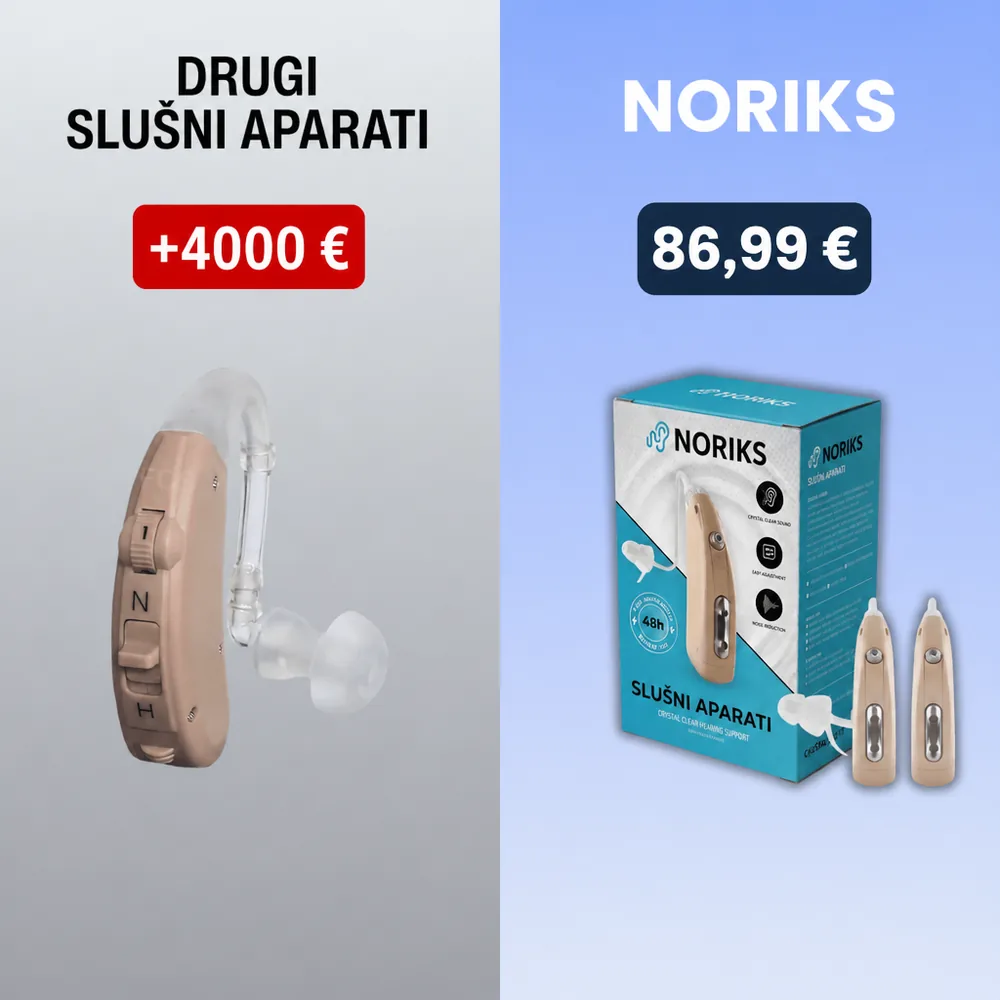
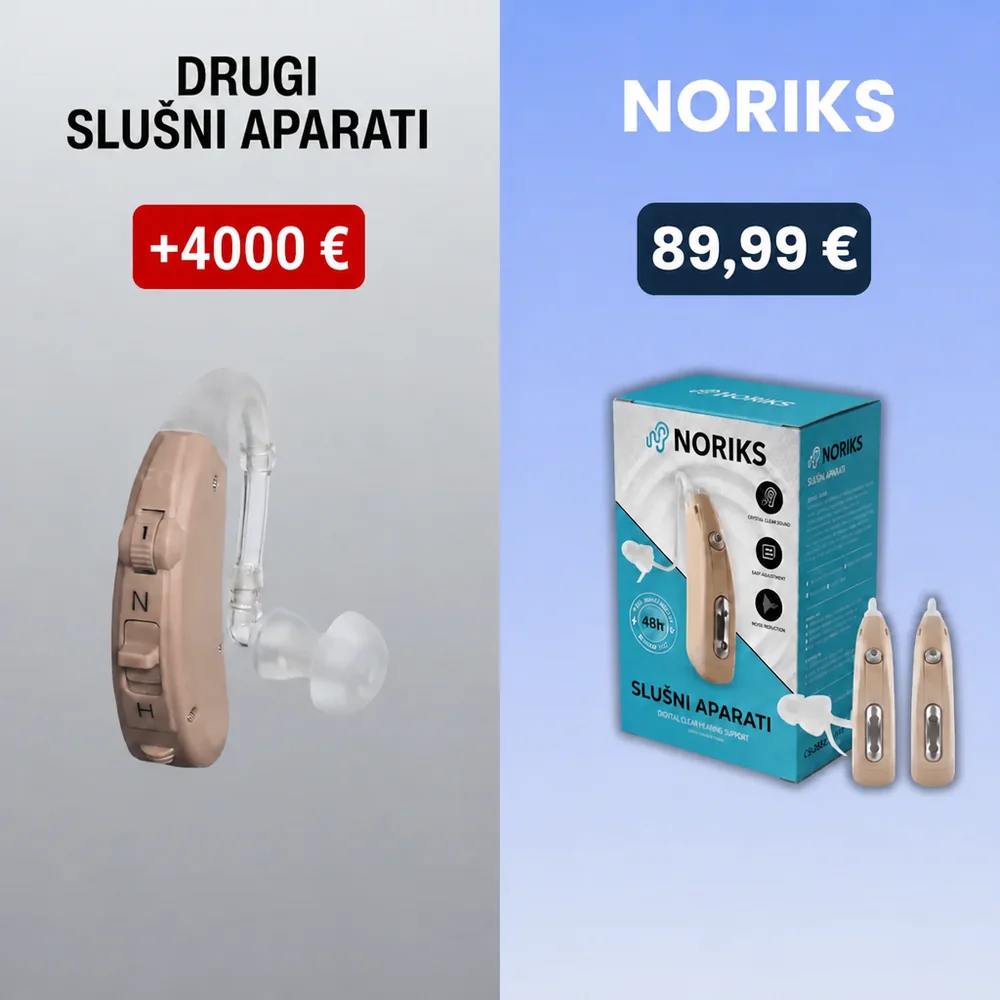
ClearEar: nova cena 89,99 EUR tudi na sliki usporedbe in v tabeli Cijena (prej 86,99) - Davidov komentar, lepe cene

diff --git a/wp-content/themes/noriks/template_parts/product-bottom/why-aparat.php b/wp-content/themes/noriks/template_parts/product-bottom/why-aparat.php
@@ -19,9 +19,9 @@
 if ( ! defined( 'ABSPATH' ) ) { exit; }
 ?>
 <div class="wsaparat">
-<section class="wsaparat__s wsaparat__s--bg"><div class="wsaparat__v wsaparat__dva"><div class="wsaparat__media wsaparat__media--cela"><img src="<?php echo esc_url( get_template_directory_uri() . '/img/aparat/noriks-aparat-03-usporedba-cijene.webp' ); ?>" alt="Dosta preplaćivanja slušnih aparata?" loading="eager" decoding="async"></div><div><div class="wsaparat__kicker">Pošteno o cijeni</div><h2 class="wsaparat__h2">Dosta preplaćivanja <em>slušnih aparata?</em></h2><p class="wsaparat__p">Iste prednosti za djelić cijene. Velike marke za slušne aparate traže 5.000 €, pa i 6.000 € i više – za uređaje čija izrada stoji tek sitniš.</p><p class="wsaparat__p">Te marke iskorištavaju ljude koji samo žele ponovno <em>jasno čuti</em>. A vi ne biste smjeli birati između praznog računa i propuštenih glasova vlastitih unuka.</p><p class="wsaparat__p">NORIKS ClearEar slušni aparati nude <em>isti kristalno čist zvuk</em> i istu učinkovitost – za djelić cijene.</p><p class="wsaparat__zak">Bolji sluh ne bi smio biti luksuz.</p></div></div></section>
+<section class="wsaparat__s wsaparat__s--bg"><div class="wsaparat__v wsaparat__dva"><div class="wsaparat__media wsaparat__media--cela"><img src="<?php echo esc_url( get_template_directory_uri() . '/img/aparat/noriks-aparat-03-usporedba-cijene.webp?v=2' ); ?>" alt="Dosta preplaćivanja slušnih aparata?" loading="eager" decoding="async"></div><div><div class="wsaparat__kicker">Pošteno o cijeni</div><h2 class="wsaparat__h2">Dosta preplaćivanja <em>slušnih aparata?</em></h2><p class="wsaparat__p">Iste prednosti za djelić cijene. Velike marke za slušne aparate traže 5.000 €, pa i 6.000 € i više – za uređaje čija izrada stoji tek sitniš.</p><p class="wsaparat__p">Te marke iskorištavaju ljude koji samo žele ponovno <em>jasno čuti</em>. A vi ne biste smjeli birati između praznog računa i propuštenih glasova vlastitih unuka.</p><p class="wsaparat__p">NORIKS ClearEar slušni aparati nude <em>isti kristalno čist zvuk</em> i istu učinkovitost – za djelić cijene.</p><p class="wsaparat__zak">Bolji sluh ne bi smio biti luksuz.</p></div></div></section>
 <section class="wsaparat__s"><div class="wsaparat__v"><div class="wsaparat__kicker wsaparat__c">Iskustva kupaca</div><h2 class="wsaparat__h2 wsaparat__c">Pogledajte što kažu <em>naši kupci</em></h2><p class="wsaparat__p wsaparat__c">Ocjena 4,8/5 od više od 120.000 zadovoljnih kupaca.</p><div class="wsaparat__grid wsaparat__g3"><div class="wsaparat__k"><div class="wsaparat__km"><img src="<?php echo esc_url( get_template_directory_uri() . '/img/aparat/noriks-aparat-kupac-1.webp' ); ?>" alt="„Bolji od mojih aparata za 4.200 €“" loading="eager" decoding="async"></div><div class="wsaparat__kt"><span class="wsaparat__zv">★★★★★</span><strong>„Bolji od mojih aparata za 4.200 €“</strong><p>„Kad su mi se pokvarili aparati od 4.200 €, probao sam ove povoljne. Zvuk je zapravo bolji nego kod starih skupih! Supruga ih je isto probala i jako su joj se svidjeli. Već sam kupio i drugi par. Hvala vam.“</p><span class="wsaparat__ime"><i class="wsaparat__av" aria-hidden="true">I</i>Ivan M.</span></div></div><div class="wsaparat__k"><div class="wsaparat__km"><img src="<?php echo esc_url( get_template_directory_uri() . '/img/aparat/noriks-aparat-kupac-2.webp' ); ?>" alt="„Jednostavniji od poznatih aparata za 5.000 €“" loading="eager" decoding="async"></div><div class="wsaparat__kt"><span class="wsaparat__zv">★★★★★</span><strong>„Jednostavniji od poznatih aparata za 5.000 €“</strong><p>„Prije tri godine kupio sam u poznatom lancu par aparata za više od 5.000 €. Bili su u redu, ali ne toliko dobri koliko je cijena obećavala. Odlučio sam probati ove i iskreno ne vidim nikakvu razliku između skupih i ovih.“</p><span class="wsaparat__ime"><i class="wsaparat__av" aria-hidden="true">K</i>Krešimir F.</span></div></div><div class="wsaparat__k"><div class="wsaparat__km"><img src="<?php echo esc_url( get_template_directory_uri() . '/img/aparat/noriks-aparat-kupac-3.webp' ); ?>" alt="„Bolje čujem, a cijena je pristupačna“" loading="eager" decoding="async"></div><div class="wsaparat__kt"><span class="wsaparat__zv">★★★★★</span><strong>„Bolje čujem, a cijena je pristupačna“</strong><p>„Ove slušne aparate koristim godinu dana i poboljšali su mi kvalitetu života. Ponovno sudjelujem u razgovorima. Pristupačni su, pa se ne bojim da ću ih izgubiti. Punjivi su – nema više kupovanja skupih sićušnih baterija.“</p><span class="wsaparat__ime"><i class="wsaparat__av" aria-hidden="true">J</i>Josip K.</span></div></div></div></div></section>
-<section class="wsaparat__s wsaparat__s--bg"><div class="wsaparat__v"><div class="wsaparat__kicker wsaparat__c">Usporedba</div><h2 class="wsaparat__h2 wsaparat__c">Po čemu je NORIKS ClearEar <em>poseban</em></h2><p class="wsaparat__p wsaparat__c">Saznajte zašto odabrati NORIKS ClearEar umjesto drugih marki slušnih aparata.</p><div class="wsaparat__tw"><table class="wsaparat__tab"><thead><tr><th><span></span></th><th><span>NORIKS ClearEar</span></th><th><span>Drugi</span></th></tr></thead><tbody><tr><td>Jasan zvuk</td><td class="wsaparat__da">✓</td><td class="wsaparat__ne">✕</td></tr><tr><td>Punjivi</td><td class="wsaparat__da">✓</td><td class="wsaparat__ne">✕</td></tr><tr><td>Trajanje baterije</td><td>48 h</td><td class="wsaparat__ne">✕</td></tr><tr><td>Jednostavna upotreba</td><td class="wsaparat__da">✓</td><td class="wsaparat__ne">✕</td></tr><tr><td>Cijena</td><td>86,99 €</td><td style="white-space:nowrap">+4.000 €</td></tr></tbody></table></div><p class="wsaparat__zak">Isti jasan zvuk – bez cijene od nekoliko tisuća eura.</p></div></section>
+<section class="wsaparat__s wsaparat__s--bg"><div class="wsaparat__v"><div class="wsaparat__kicker wsaparat__c">Usporedba</div><h2 class="wsaparat__h2 wsaparat__c">Po čemu je NORIKS ClearEar <em>poseban</em></h2><p class="wsaparat__p wsaparat__c">Saznajte zašto odabrati NORIKS ClearEar umjesto drugih marki slušnih aparata.</p><div class="wsaparat__tw"><table class="wsaparat__tab"><thead><tr><th><span></span></th><th><span>NORIKS ClearEar</span></th><th><span>Drugi</span></th></tr></thead><tbody><tr><td>Jasan zvuk</td><td class="wsaparat__da">✓</td><td class="wsaparat__ne">✕</td></tr><tr><td>Punjivi</td><td class="wsaparat__da">✓</td><td class="wsaparat__ne">✕</td></tr><tr><td>Trajanje baterije</td><td>48 h</td><td class="wsaparat__ne">✕</td></tr><tr><td>Jednostavna upotreba</td><td class="wsaparat__da">✓</td><td class="wsaparat__ne">✕</td></tr><tr><td>Cijena</td><td>89,99 €</td><td style="white-space:nowrap">+4.000 €</td></tr></tbody></table></div><p class="wsaparat__zak">Isti jasan zvuk – bez cijene od nekoliko tisuća eura.</p></div></section>
 <section class="wsaparat__s"><div class="wsaparat__v wsaparat__dva wsaparat__dva--rev"><div class="wsaparat__media"><video src="<?php echo esc_url( get_template_directory_uri() . '/img/aparat/noriks-aparat-punjenje.mp4' ); ?>" poster="<?php echo esc_url( get_template_directory_uri() . '/img/aparat/noriks-aparat-punjenje.jpg' ); ?>" autoplay muted loop playsinline preload="metadata"></video></div><div><div class="wsaparat__kicker">Punjiva baterija</div><h2 class="wsaparat__h2">Potpuno punjivi – <em>nikad više ne kupujte baterije</em></h2><p class="wsaparat__p"><em>Zbogom mijenjanju baterija</em> uz potpuno punjive NORIKS ClearEar aparate. Brzo punjenje od 2 sata daje vam do 2 puna dana kristalno čistog zvuka.</p><p class="wsaparat__p">Praktična džepna kutija za punjenje vaša je prijenosna stanica – <em>punite kod kuće ili u pokretu</em>.</p><p class="wsaparat__p">Plava svjetla pokazuju napredak punjenja i gase se kad su aparati puni. Jedan ciklus kutije za punjenje daje više punih punjenja i napaja aparate do cijelog tjedna.</p><p class="wsaparat__zak">2 sata punjenja – do 2 dana jasnog zvuka.</p></div></div></section>
 <section class="wsaparat__s wsaparat__s--bg"><div class="wsaparat__v wsaparat__dva"><div class="wsaparat__media"><img src="<?php echo esc_url( get_template_directory_uri() . '/img/aparat/noriks-aparat-jasan-zvuk.webp' ); ?>" alt="Kristalno jasna podrška sluhu" loading="eager" decoding="async"></div><div><div class="wsaparat__kicker">Kristalno čist zvuk</div><h2 class="wsaparat__h2">Kristalno <em>jasna podrška sluhu</em></h2><p class="wsaparat__p">NORIKS ClearEar slušni aparati daju vam glasan i jasan zvuk koji vam je nedostajao. Bez dosadnog zviždanja i cviljenja povratne veze.</p><p class="wsaparat__p">Imate li <em>blagi ili umjereni gubitak sluha</em>, ovi aparati donose kristalno jasne glasove, a pozadinsku buku guraju u pozadinu.</p><p class="wsaparat__p">Razgovori, televizija i zvukovi oko vas ponovno postaju razgovijetni – bez naprezanja.</p><p class="wsaparat__zak">Bez zviždanja. Bez cviljenja. Samo jasni glasovi.</p></div></div></section>
 <section class="wsaparat__s"><div class="wsaparat__v wsaparat__dva wsaparat__dva--rev"><div class="wsaparat__media"><img src="<?php echo esc_url( get_template_directory_uri() . '/img/aparat/noriks-aparat-diskretan.webp' ); ?>" alt="Diskretni, udobni aparati" loading="eager" decoding="async"></div><div><div class="wsaparat__kicker">Diskretno i udobno</div><h2 class="wsaparat__h2">Diskretni, <em>udobni aparati</em></h2><p class="wsaparat__p">Iako se nose iza uha, aparati sjede tik uz glavu i dovoljno su tanki da se sa strane gotovo ne vide.</p><p class="wsaparat__p">Vrlo su udobni, <em>ne trljaju kožu</em> i <em>ne smetaju naočalama</em>. Ušni nastavci izrađeni su od ultra mekog silikona koji je nježan i ugodan i za najosjetljiviju kožu.</p><p class="wsaparat__p">U paketu je <em>8 veličina ušnih nastavaka</em>, tako da pronađete baš onaj koji vam savršeno pristaje.</p><p class="wsaparat__zak">Toliko diskretni da ćete zaboraviti da ih nosite.</p></div></div></section>
